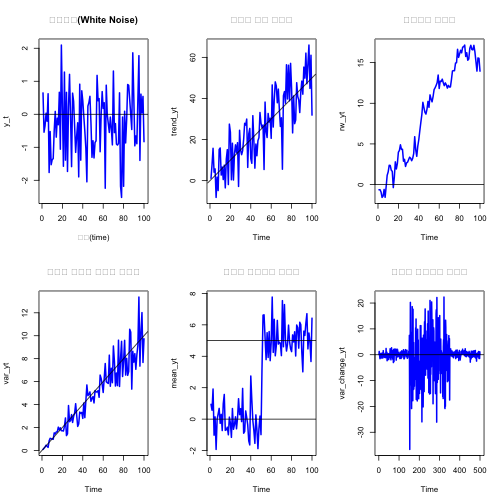
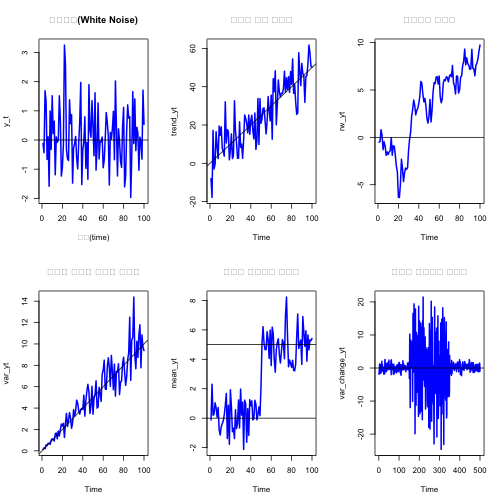
compile...

diff --git a/stat-time-series-eda.html b/stat-time-series-eda.html
@@ -65,11 +65,11 @@
 reg_ts_dat &lt;-<span class="st"> </span><span class="kw">ts</span>(<span class="kw">sample</span>(<span class="dv">20</span>), <span class="dt">frequency =</span> <span class="dv">4</span> , <span class="dt">start=</span> <span class="dv">1998</span>)
 reg_ts_dat</code></pre></div>
 <pre class="output"><code>     Qtr1 Qtr2 Qtr3 Qtr4
-1998   10   17    8    3
-1999    5   12   19   14
-2000    4   16    1   20
-2001   15    7   18    6
-2002   11    2    9   13
+1998   12   18    1   19
+1999   11    6   14    9
+2000    4    5    7   15
+2001    2   17    8   10
+2002   13    3   16   20
 </code></pre>
 <div class="sourceCode"><pre class="sourceCode r"><code class="sourceCode r"><span class="kw">plot</span>(reg_ts_dat, <span class="dt">type=</span><span class="st">&quot;o&quot;</span>, <span class="dt">lty=</span><span class="dv">5</span>, <span class="dt">lwd=</span><span class="fl">0.8</span>, <span class="dt">pch=</span><span class="st">&quot;O&quot;</span>, <span class="dt">col=</span><span class="dv">2</span>, <span class="dt">xlab=</span><span class="st">&quot;&quot;</span>, <span class="dt">ylab=</span><span class="st">&quot;&quot;</span>)
 
@@ -118,20 +118,7 @@ ts_dat &lt;-<span class="st"> </span><span class="kw">ts</span>(dat, <span class
 <h2 id="시계열-데이터-분석-흐름-time-series-concept-example">시계열 데이터 분석 흐름 <a href="#fn1" class="footnoteRef" id="fnref1"><sup>1</sup></a></h2>
 <p>시계열 데이터를 분석하기 위해서 가장 먼저 문자형과 숫자형으로 준비된 데이터프레임을 시간자료구조를 포함한 적절한 데이터프레임으로 변환하는 과정이 필요하다. 시계열 데이터프레임이 준비되면 시각화를 통해 시계열 데이터 상태를 파악하고 정상 시계열 데이터로 변화하는 과정에 전념한다.</p>
 <p><img src="fig/stat-time-series-workflow.png" alt="시계열 데이터 분석 흐름" width="77%" /></p>
-<aside class="callout panel panel-info">
-<div class="panel-heading">
-<h3 id="정상성stationarity과-약정상성weak-stationarity"><span class="glyphicon glyphicon-pushpin"></span>정상성(Stationarity)과 약정상성(Weak Stationarity)</h3>
-</div>
-<div class="panel-body">
-<p>정상성을 갖는 시계열 데이터는 랜덤한 움직임을 갖지만 시점마다 유사하게 동작하는 특징이 있어 시간에 따라 안정된 분포를 갖는다. 약정상성은 시간에 따라 일정한 평균, 분산, 공분산을 갖는 확률과정으로 정의된다. 즉, 시계열 데이터 $Y_1 , Y_2 , $이 다음을 세가지 조건을 충족하면 된다.</p>
-<ul>
-<li>시계열 <span class="math inline">\(Y_t\)</span> 모든 시점 <span class="math inline">\(t\)</span>에 대해 평균이 <span class="math inline">\(\mu\)</span>로 같다.</li>
-<li>시계열 <span class="math inline">\(Y_t\)</span> 모든 시점 <span class="math inline">\(t\)</span>에 대해 분산이 <span class="math inline">\(\sigma^2\)</span>로 같다.</li>
-<li>시계열 <span class="math inline">\(Y_t\)</span>, <span class="math inline">\(Y_s\)</span> 모든 <span class="math inline">\(h\)</span>에 대해 공분산이 <span class="math inline">\(|t-s| = h\)</span>로 같다; 예를 들어, 6단위 만큼 차이가 나서 <span class="math inline">\(Cov(Y_1, Y_7 ) = Cov(Y_11 , Y_17 )\)</span>.</li>
-</ul>
-<p>특히, 정상성을 갖는 데이터는 절약성 원칙(Principle of Parsimony)에 따라 적은 모수만을 사용하여 모형을 만들 수 있는 장점이 있다.</p>
-</div>
-</aside>
+<p>시계열 데이터는 백색잡음 시계열, 증가 혹은 감소하는 추세를 갖는 시계열, 분산이 변화하는 시계열, 평균이 변화하는 시계열, 계절성 주기를 갖는 시계열등 다양하다.</p>
 <div class="sourceCode"><pre class="sourceCode r"><code class="sourceCode r"><span class="kw">par</span>(<span class="dt">mfrow=</span><span class="kw">c</span>(<span class="dv">2</span>,<span class="dv">3</span>))
 
 <span class="co"># 백색잡음 시계열 -----------------------------------------------------------</span>
@@ -191,6 +178,78 @@ var_change_yt &lt;-<span class="st"> </span><span class="kw">c</span>(<span clas
 </tr>
 </tbody>
 </table>
+<h3 id="정상성stationarity-확보">정상성(Stationarity) 확보</h3>
+<aside class="callout panel panel-info">
+<div class="panel-heading">
+<h3 id="정상성stationarity과-약정상성weak-stationarity"><span class="glyphicon glyphicon-pushpin"></span>정상성(Stationarity)과 약정상성(Weak Stationarity)</h3>
+</div>
+<div class="panel-body">
+<p>정상성을 갖는 시계열 데이터는 랜덤한 움직임을 갖지만 시점마다 유사하게 동작하는 특징이 있어 시간에 따라 안정된 분포를 갖는다. 약정상성은 시간에 따라 일정한 평균, 분산, 공분산을 갖는 확률과정으로 정의된다. 즉, 시계열 데이터 $Y_1 , Y_2 , $이 다음을 세가지 조건을 충족하면 된다.</p>
+<ul>
+<li>시계열 <span class="math inline">\(Y_t\)</span> 모든 시점 <span class="math inline">\(t\)</span>에 대해 평균이 <span class="math inline">\(\mu\)</span>로 같다.</li>
+<li>시계열 <span class="math inline">\(Y_t\)</span> 모든 시점 <span class="math inline">\(t\)</span>에 대해 분산이 <span class="math inline">\(\sigma^2\)</span>로 같다.</li>
+<li>시계열 <span class="math inline">\(Y_t\)</span>, <span class="math inline">\(Y_s\)</span> 모든 <span class="math inline">\(h\)</span>에 대해 공분산이 <span class="math inline">\(|t-s| = h\)</span>로 같다; 예를 들어, 6단위 만큼 시점차이가 나는 경우 <span class="math inline">\(Cov(Y_1, Y_7 ) = Cov(Y_{11} , Y_{17} )\)</span>.</li>
+</ul>
+<p>특히, 정상성을 갖는 데이터는 <strong>절약성 원칙(Principle of Parsimony)</strong> 에 따라 적은 모수만을 사용하여 모형을 만들 수 있는 장점이 있다.</p>
+</div>
+</aside>
+<p>정상성을 확보하는 것이 중요하기 때문에 정상성을 갖지 않는 시계열 데이터를 정상 시계열로 돌리는데 다음과 같은 기법이 동원된다.</p>
+<ul>
+<li>로그변환: <span class="math inline">\(log(Y_t )\)</span> 을 통해 분산이 커지는 경향을 갖는 시계열을 안정화 시킴.</li>
+<li>차분: <span class="math inline">\(diff(Y_t )\)</span> 을 통해 차분을 하계 되면 추세를 제거하는 효과를 거둠.</li>
+<li>계절차분: <span class="math inline">\(diff(Y_t , s)\)</span> 을 통해 계절 차분을 하계 되면 계절추세를 제거하는 효과를 거둠.</li>
+</ul>
+<h3 id="백색잡음white-noise">백색잡음(White Noise)</h3>
+<p>백색잡음(White Noise)은 백색잡음은 고정된 평균, 분산을 갖고 시계열 상관은 없는 시계열 데이터로 <code>arima.sim()</code> 함수를 통해 모수를 조절해서 백색잡음 시계열을 추출할 수 있다. <span class="math inline">\(\mu=0, \sigma=1\)</span>인 백색잡음 시계열과 <span class="math inline">\(\mu=5, \sigma=4\)</span>인 백색잡음 시계열은 다음과 같은 형태를 띈다. <code>arima</code> 모형을 적합시키면 <span class="math inline">\(\mu=5, \sigma=4\)</span> 값에 가깝게 추정한 것을 확인할 수 있다.</p>
+<div class="sourceCode"><pre class="sourceCode r"><code class="sourceCode r"><span class="co"># 백색잡음 시계열 -----------------------------------------------------------</span>
+white_noise_zero &lt;-<span class="st"> </span><span class="kw">arima.sim</span>(<span class="dt">model =</span> <span class="kw">list</span>(<span class="dt">order =</span> <span class="kw">c</span>(<span class="dv">0</span>, <span class="dv">0</span>, <span class="dv">0</span>)), <span class="dt">n =</span> <span class="dv">250</span>)
+white_noise_mean_sd &lt;-<span class="st"> </span><span class="kw">arima.sim</span>(<span class="dt">model =</span> <span class="kw">list</span>(<span class="dt">order =</span> <span class="kw">c</span>(<span class="dv">0</span>, <span class="dv">0</span>, <span class="dv">0</span>)), <span class="dt">n =</span> <span class="dv">250</span>, <span class="dt">mean =</span><span class="dv">5</span>, <span class="dt">sd =</span><span class="dv">2</span>)
+
+<span class="kw">par</span>(<span class="dt">mfrow=</span><span class="kw">c</span>(<span class="dv">1</span>,<span class="dv">2</span>))
+<span class="kw">ts.plot</span>(white_noise_zero, <span class="dt">ylim=</span><span class="kw">c</span>(-<span class="dv">10</span>,<span class="dv">10</span>))
+<span class="kw">ts.plot</span>(white_noise_mean_sd, <span class="dt">ylim=</span><span class="kw">c</span>(-<span class="dv">10</span>,<span class="dv">10</span>))</code></pre></div>
+<p><img src="fig/time-series-white-noise-1.png" title="plot of chunk time-series-white-noise" alt="plot of chunk time-series-white-noise" style="display: block; margin: auto;" /></p>
+<div class="sourceCode"><pre class="sourceCode r"><code class="sourceCode r"><span class="kw">arima</span>(white_noise_mean_sd)</code></pre></div>
+<pre class="output"><code>
+Call:
+arima(x = white_noise_mean_sd)
+
+Coefficients:
+      intercept
+         4.9079
+s.e.     0.1321
+
+sigma^2 estimated as 4.363:  log likelihood = -538.88,  aic = 1081.77
+</code></pre>
+<h3 id="랜덤워크random-walk">랜덤워크(Random Walk)</h3>
+<p>랜덤워크는 다음과 같은 재귀식으로 표현된다.</p>
+<p><span class="math inline">\(\text{오늘} = \text{어제} + \text{잡음}\)</span></p>
+<p>수학적으로 표현하면</p>
+<p><span class="math inline">\(Y_t = Y_{t-1} + \epsilon_t\)</span></p>
+<p>단위근(Unit root)가 존재하여 초기값 <span class="math inline">\(Y_0\)</span>를 지정하는 것이 모의시험을 위해 필요하고, 랜덤워크 분산 <span class="math inline">\(\sigma^2\)</span> 모수만 갖는 확률과정이다.</p>
+<p><span class="math inline">\(Y_t - Y_{t-1} = \epsilon_t\)</span></p>
+<p>차분(<code>diff()</code>)을 하게 되면 백색잡음 과정으로 환원된다.</p>
+<p><code>arima.sim()</code> 함수에 차분 모수를 1로 설정하면 랜덤워크 시계열을 모의추출할 수 있다. 이를 차분하면 백색잡음과정이 되고 이를 <code>arima</code> 모형으로 추정하면 평균과 분산이 처음 모의시험에서 설정한 모수에 근접함이 확인된다.</p>
+<div class="sourceCode"><pre class="sourceCode r"><code class="sourceCode r"><span class="co"># 랜덤워크 시계열 -----------------------------------------------------------</span>
+rw_yt &lt;-<span class="st"> </span><span class="kw">arima.sim</span>(<span class="dt">model =</span> <span class="kw">list</span>(<span class="dt">order =</span> <span class="kw">c</span>(<span class="dv">0</span>, <span class="dv">1</span>, <span class="dv">0</span>)), <span class="dt">n =</span> <span class="dv">250</span>)
+diff_rw_yt &lt;-<span class="st"> </span><span class="kw">diff</span>(rw_yt)
+
+<span class="kw">par</span>(<span class="dt">mfrow=</span><span class="kw">c</span>(<span class="dv">1</span>,<span class="dv">2</span>))
+<span class="kw">ts.plot</span>(rw_yt, <span class="dt">ylim=</span><span class="kw">c</span>(-<span class="dv">10</span>,<span class="dv">10</span>))
+<span class="kw">ts.plot</span>(diff_rw_yt, <span class="dt">ylim=</span><span class="kw">c</span>(-<span class="dv">10</span>,<span class="dv">10</span>))</code></pre></div>
+<p><img src="fig/time-series-random-walk-1.png" title="plot of chunk time-series-random-walk" alt="plot of chunk time-series-random-walk" style="display: block; margin: auto;" /></p>
+<div class="sourceCode"><pre class="sourceCode r"><code class="sourceCode r"><span class="kw">arima</span>(diff_rw_yt)</code></pre></div>
+<pre class="output"><code>
+Call:
+arima(x = diff_rw_yt)
+
+Coefficients:
+      intercept
+        -0.0803
+s.e.     0.0651
+
+sigma^2 estimated as 1.058:  log likelihood = -361.77,  aic = 727.54
+</code></pre>
 <div class="footnotes">
 <hr />
 <ol>

diff --git a/stat-time-series-eda.md b/stat-time-series-eda.md
@@ -42,11 +42,11 @@ reg_ts_dat
 
 ~~~{.output}
      Qtr1 Qtr2 Qtr3 Qtr4
-1998   10   17    8    3
-1999    5   12   19   14
-2000    4   16    1   20
-2001   15    7   18    6
-2002   11    2    9   13
+1998   12   18    1   19
+1999   11    6   14    9
+2000    4    5    7   15
+2001    2   17    8   10
+2002   13    3   16   20
 
 ~~~
 
@@ -110,17 +110,7 @@ plot(ts_dat, type="o", lty=5, lwd=0.7, pch="O", col=2, xlab="", ylab="")
 <img src="fig/stat-time-series-workflow.png" alt="시계열 데이터 분석 흐름" width="77%" />
 
 
-> ### 정상성(Stationarity)과 약정상성(Weak Stationarity) {.callout}
-> 
-> 정상성을 갖는 시계열 데이터는 랜덤한 움직임을 갖지만 시점마다 유사하게 동작하는 특징이 있어 시간에 따라 안정된 분포를 갖는다.
-> 약정상성은 시간에 따라 일정한 평균, 분산, 공분산을 갖는 확률과정으로 정의된다. 즉, 시계열 데이터 $Y_1 , Y_2 , \cdots $이 다음을 세가지 
-> 조건을 충족하면 된다.
-> 
-> - 시계열 $Y_t$ 모든 시점 $t$에 대해 평균이 $\mu$로 같다.
-> - 시계열 $Y_t$ 모든 시점 $t$에 대해 분산이 $\sigma^2$로 같다.
-> - 시계열 $Y_t$, $Y_s$ 모든 $h$에 대해 공분산이 $|t-s| = h$로 같다; 예를 들어, 6단위 만큼 차이가 나서 $Cov(Y_1, Y_7 ) = Cov(Y_11 , Y_17 )$.
-> 
-> 특히, 정상성을 갖는 데이터는 절약성 원칙(Principle of Parsimony)에 따라 적은 모수만을 사용하여 모형을 만들 수 있는 장점이 있다.
+시계열 데이터는 백색잡음 시계열, 증가 혹은 감소하는 추세를 갖는 시계열, 분산이 변화하는 시계열, 평균이 변화하는 시계열, 계절성 주기를 갖는 시계열등 다양하다.
 
 
 
@@ -175,4 +165,116 @@ abline(a=0, b=0)
 |--------------|--------------------|---------------------|
 | 추세와 분산이 커지는 시계열 | 평균이 변화하는 시계열 | 분산이 변화하는 시계열 |
 
+### 정상성(Stationarity) 확보
 
+> ### 정상성(Stationarity)과 약정상성(Weak Stationarity) {.callout}
+> 
+> 정상성을 갖는 시계열 데이터는 랜덤한 움직임을 갖지만 시점마다 유사하게 동작하는 특징이 있어 시간에 따라 안정된 분포를 갖는다.
+> 약정상성은 시간에 따라 일정한 평균, 분산, 공분산을 갖는 확률과정으로 정의된다. 즉, 시계열 데이터 $Y_1 , Y_2 , \cdots $이 다음을 세가지 
+> 조건을 충족하면 된다.
+> 
+> - 시계열 $Y_t$ 모든 시점 $t$에 대해 평균이 $\mu$로 같다.
+> - 시계열 $Y_t$ 모든 시점 $t$에 대해 분산이 $\sigma^2$로 같다.
+> - 시계열 $Y_t$, $Y_s$ 모든 $h$에 대해 공분산이 $|t-s| = h$로 같다; 예를 들어, 6단위 만큼 시점차이가 나는 경우 $Cov(Y_1, Y_7 ) = Cov(Y_{11} , Y_{17} )$.
+> 
+> 특히, 정상성을 갖는 데이터는 **절약성 원칙(Principle of Parsimony)** 에 따라 적은 모수만을 사용하여 모형을 만들 수 있는 장점이 있다.
+
+
+정상성을 확보하는 것이 중요하기 때문에 정상성을 갖지 않는 시계열 데이터를 정상 시계열로 돌리는데 다음과 같은 기법이 동원된다.
+
+- 로그변환: $log(Y_t )$ 을 통해 분산이 커지는 경향을 갖는 시계열을 안정화 시킴.
+- 차분: $diff(Y_t )$ 을 통해 차분을 하계 되면 추세를 제거하는 효과를 거둠.
+- 계절차분: $diff(Y_t ,  s)$ 을 통해 계절 차분을 하계 되면 계절추세를 제거하는 효과를 거둠.
+
+### 백색잡음(White Noise)
+
+백색잡음(White Noise)은 백색잡음은 고정된 평균, 분산을 갖고 시계열 상관은 없는 시계열 데이터로 
+`arima.sim()` 함수를 통해 모수를 조절해서 백색잡음 시계열을 추출할 수 있다.
+$\mu=0, \sigma=1$인 백색잡음 시계열과 $\mu=5, \sigma=4$인 백색잡음 시계열은 다음과 같은 형태를 띈다.
+`arima` 모형을 적합시키면 $\mu=5, \sigma=4$ 값에 가깝게 추정한 것을 확인할 수 있다.
+
+
+
+~~~{.r}
+# 백색잡음 시계열 -----------------------------------------------------------
+white_noise_zero <- arima.sim(model = list(order = c(0, 0, 0)), n = 250)
+white_noise_mean_sd <- arima.sim(model = list(order = c(0, 0, 0)), n = 250, mean =5, sd =2)
+
+par(mfrow=c(1,2))
+ts.plot(white_noise_zero, ylim=c(-10,10))
+ts.plot(white_noise_mean_sd, ylim=c(-10,10))
+~~~
+
+<img src="fig/time-series-white-noise-1.png" title="plot of chunk time-series-white-noise" alt="plot of chunk time-series-white-noise" style="display: block; margin: auto;" />
+
+~~~{.r}
+arima(white_noise_mean_sd)
+~~~
+
+
+
+~~~{.output}
+
+Call:
+arima(x = white_noise_mean_sd)
+
+Coefficients:
+      intercept
+         4.9079
+s.e.     0.1321
+
+sigma^2 estimated as 4.363:  log likelihood = -538.88,  aic = 1081.77
+
+~~~
+
+### 랜덤워크(Random Walk)
+
+랜덤워크는 다음과 같은 재귀식으로 표현된다.
+
+$\text{오늘} = \text{어제} + \text{잡음}$
+
+수학적으로 표현하면 
+
+$Y_t = Y_{t-1} + \epsilon_t$
+
+단위근(Unit root)가 존재하여 초기값 $Y_0$를 지정하는 것이 모의시험을 위해 필요하고, 랜덤워크 분산 $\sigma^2$ 모수만 갖는 확률과정이다.
+
+$Y_t - Y_{t-1} = \epsilon_t$
+
+차분(`diff()`)을 하게 되면 백색잡음 과정으로 환원된다.
+
+`arima.sim()` 함수에 차분 모수를 1로 설정하면 랜덤워크 시계열을 모의추출할 수 있다.
+이를 차분하면 백색잡음과정이 되고 이를 `arima` 모형으로 추정하면 평균과 분산이 처음 모의시험에서 설정한 모수에 근접함이 확인된다.
+
+
+~~~{.r}
+# 랜덤워크 시계열 -----------------------------------------------------------
+rw_yt <- arima.sim(model = list(order = c(0, 1, 0)), n = 250)
+diff_rw_yt <- diff(rw_yt)
+
+par(mfrow=c(1,2))
+ts.plot(rw_yt, ylim=c(-10,10))
+ts.plot(diff_rw_yt, ylim=c(-10,10))
+~~~
+
+<img src="fig/time-series-random-walk-1.png" title="plot of chunk time-series-random-walk" alt="plot of chunk time-series-random-walk" style="display: block; margin: auto;" />
+
+~~~{.r}
+arima(diff_rw_yt)
+~~~
+
+
+
+~~~{.output}
+
+Call:
+arima(x = diff_rw_yt)
+
+Coefficients:
+      intercept
+        -0.0803
+s.e.     0.0651
+
+sigma^2 estimated as 1.058:  log likelihood = -361.77,  aic = 727.54
+
+~~~
